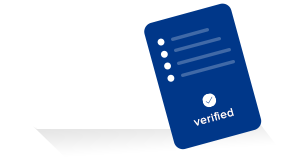
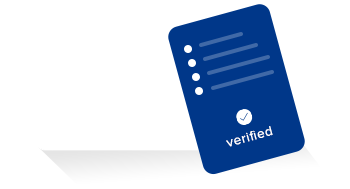
building desktop view

diff --git a/app/views/main.html b/app/views/main.html
@@ -33,10 +33,9 @@
     </svg>
   </a>
 </div>
-<section class="">
-  <div class="container">
+  <div class="container featurette-wrap">
     <div class="row">
-      <div class="container col-md-6 feat-lft featurette">
+      <div class="container-fluid col-md-6 feat-lft featurette">
         <div class="container wrap-mob-featpassmini">
           <img ng-src="/images/feature-passcard-mini.png" class="img-responsive" alt="Responsive image">
         </div>
@@ -47,7 +46,7 @@
         <p class="lead"><a href="/registrars" class="btn btn-default btn-lg btn-transparent">Learn more</a></p>
         <img ng-src="/images/arrow-down.png" class="img-responsive col-centered arrow-learn-more" alt="Responsive image">
       </div>
-      <div class="container col-md-6 feat-rgt featurette">
+      <div class="container-fluid col-md-6 feat-rgt featurette">
       <div class="container wrap-mob-featdecentralized">
           <img ng-src="/images/feature-decentralized.png" class="img-responsive" alt="Responsive image">
        </div>
@@ -60,7 +59,6 @@
       </div>
     </div>
   </div>
-</section>
 <section class="inverted">
   <div class="container">
     <div class="row">

diff --git a/app/styles/main.css b/app/styles/main.css
@@ -159,7 +159,7 @@ div.container.col-xs-11.col-centered {}
 
 /* -- Responsive max-width wrappers -- */
 .wrap-mob-hero {max-width: 300px; margin-bottom:50px; margin-left:auto; margin-right:auto;}
-.wrap-mob-featpassmini, .wrap-mob-featdecentralized {max-width: 330px;}
+.wrap-mob-featpassmini, .wrap-mob-featdecentralized {max-width: 380px;}
 .wrap-mob-sections {max-width: 450px;}
 
 
@@ -185,6 +185,7 @@ div.container.col-xs-11.col-centered {}
 
 /* Small devices (tablets, 768px and up) */
 @media (min-width: 768px) {
+  .container {width: auto;}
   .masthead-brand {float: left;}
   .masthead-nav {float: right;}
   .jumbotron {width: 404px; margin-top:100px!important;}

diff --git a/Gruntfile.js b/Gruntfile.js
@@ -70,7 +70,7 @@ module.exports = function (grunt) {
       options: {
         port: 9000,
         // Change this to '0.0.0.0' to access the server from outside.
-        hostname: 'localhost',
+        hostname: '0.0.0.0',
         livereload: 35729
       },
       livereload: {
